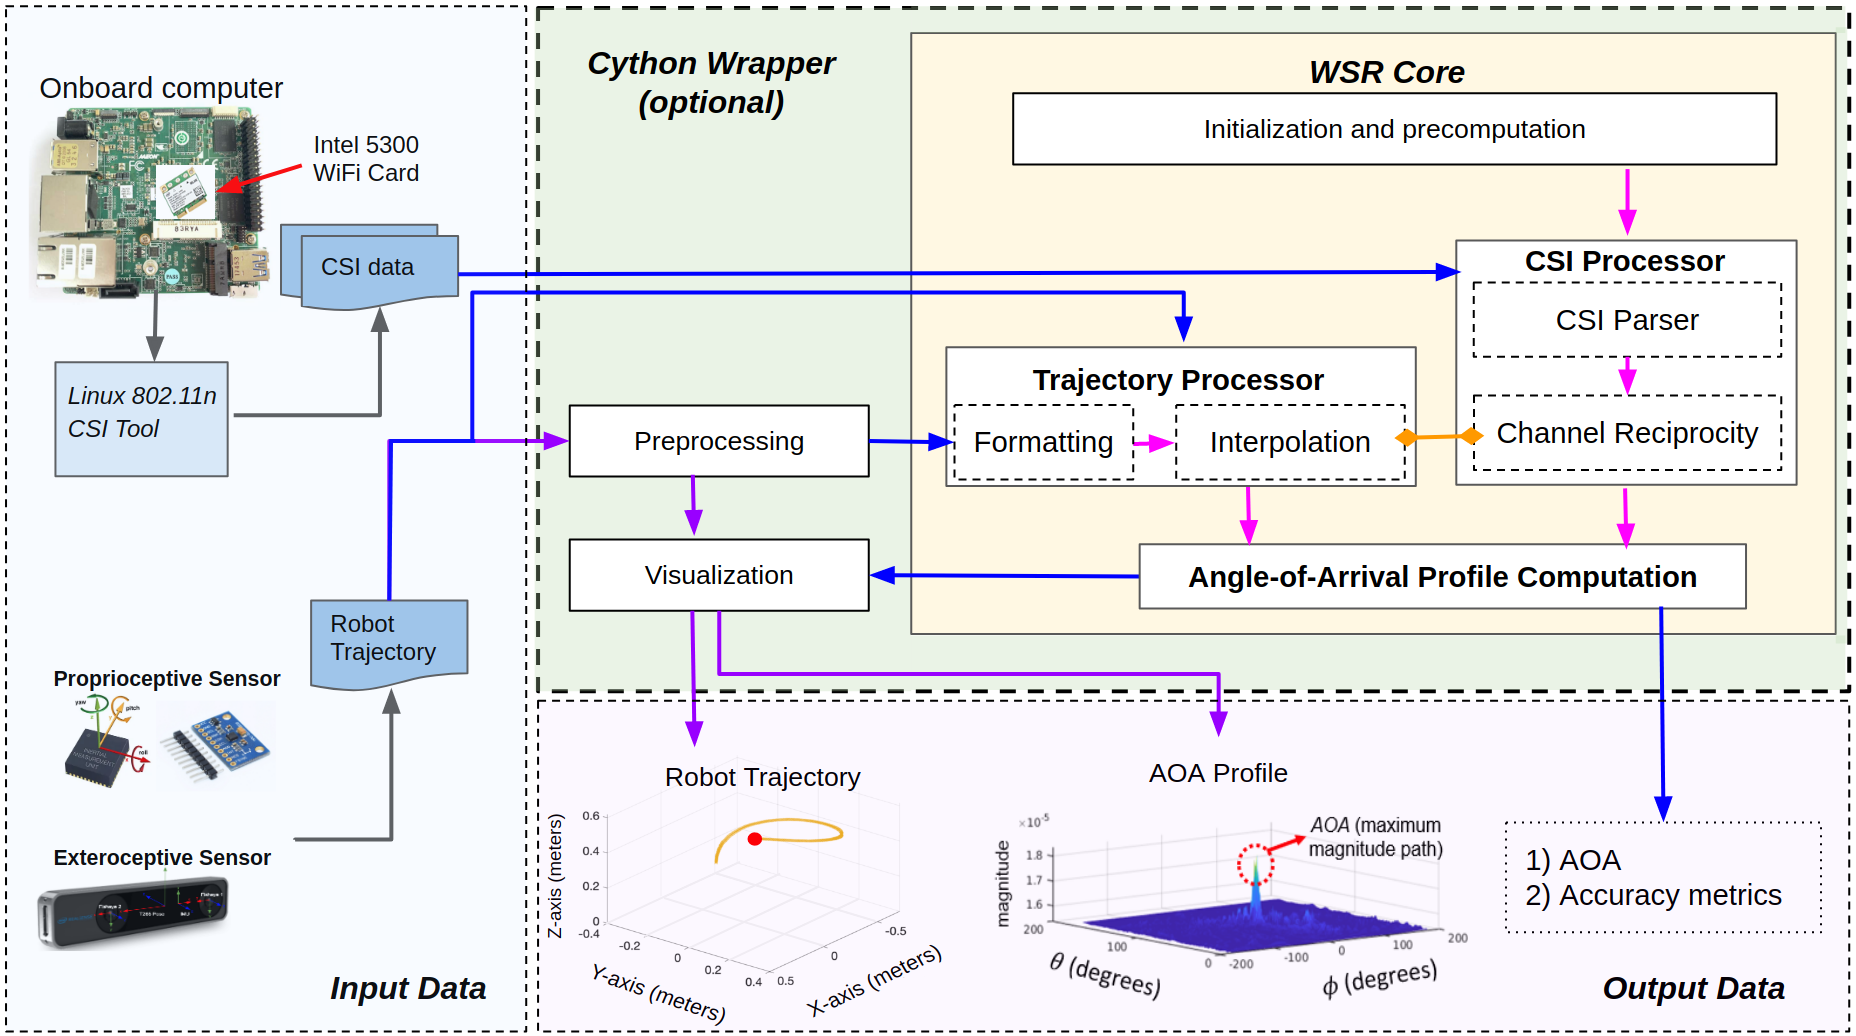
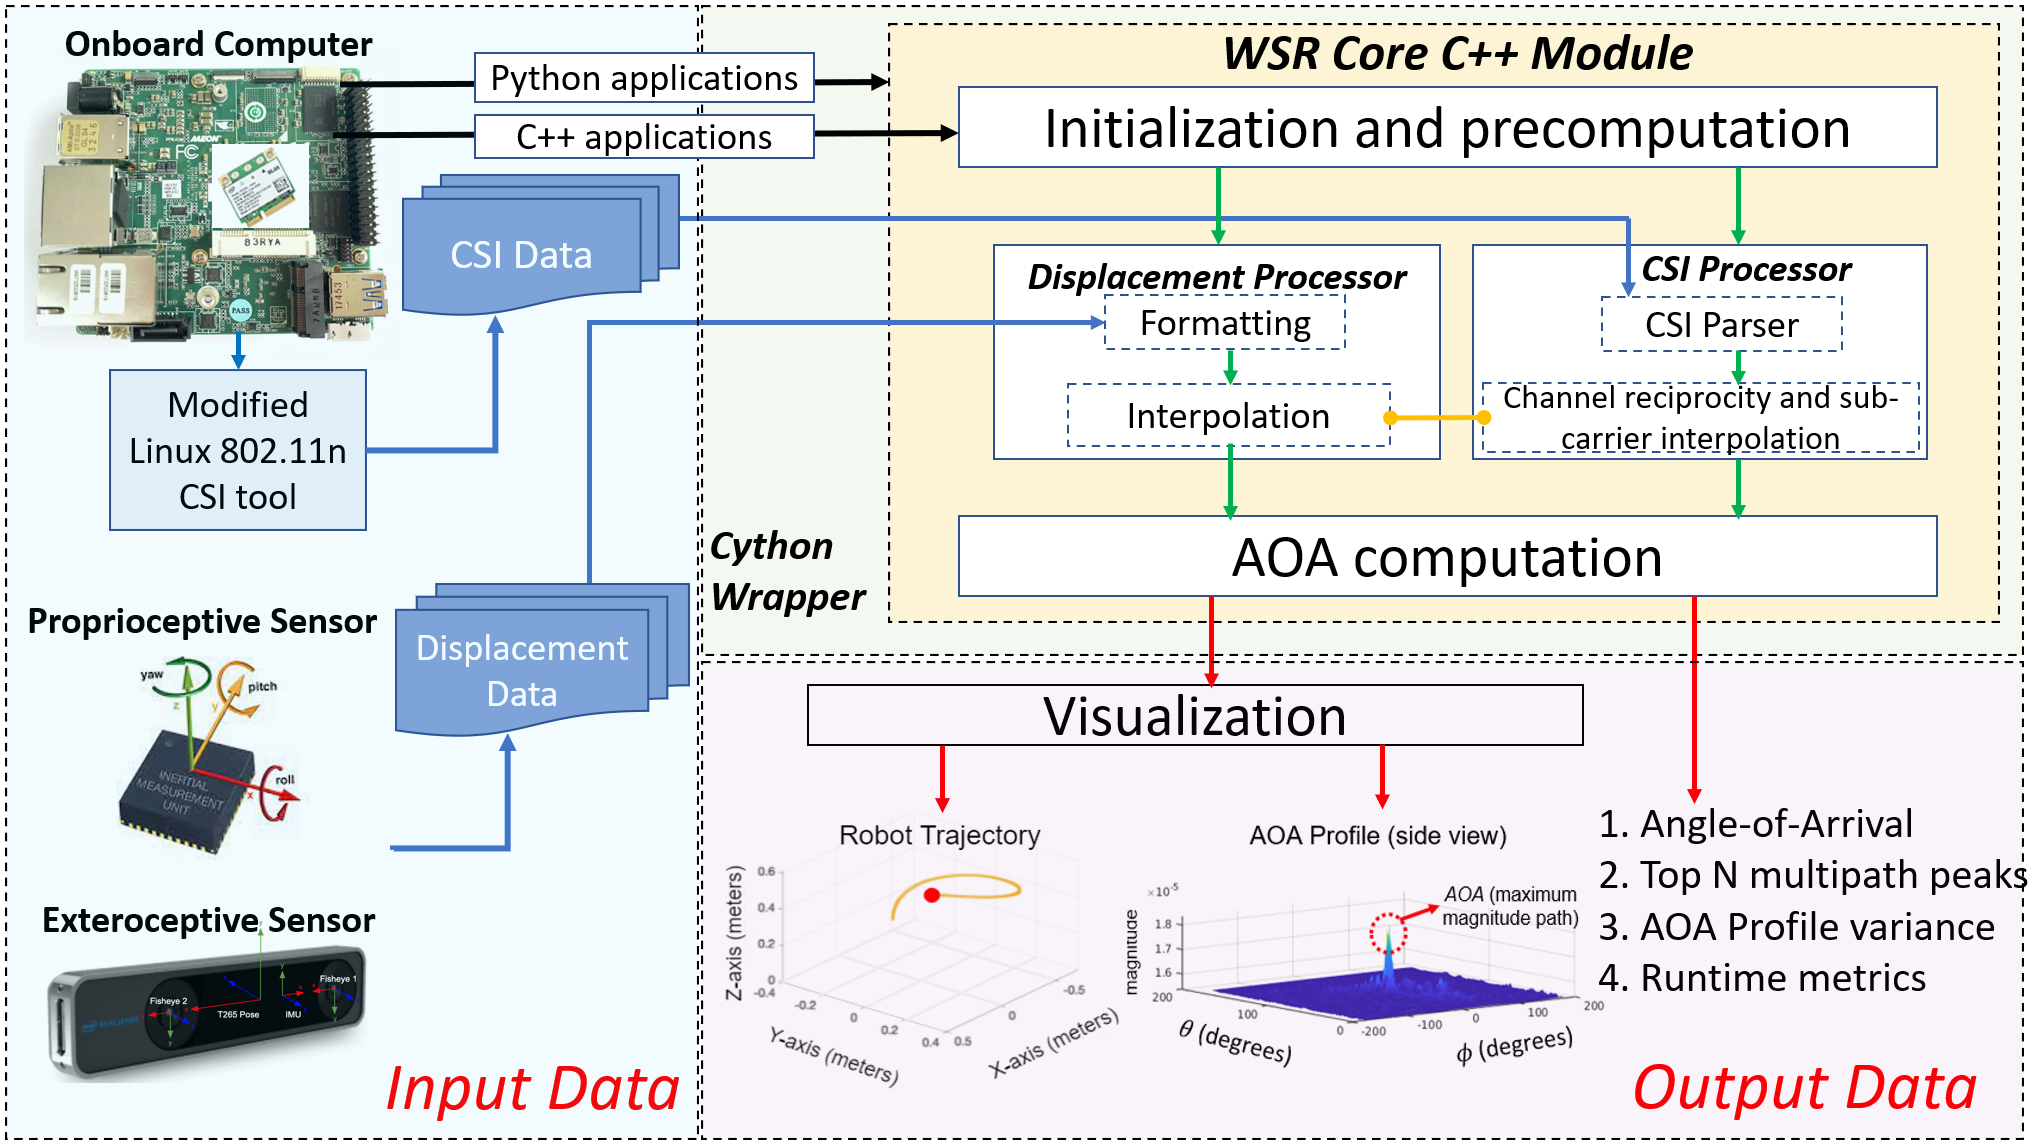
updated

diff --git a/README.md b/README.md
@@ -17,21 +17,30 @@ WiFi-Sensor-for-Robotics (WSR) toolbox is an open source library, that enables r
 
 ![Paper](figs/Paper_logo.png)
 
-### AOA profile obtained using 3D robot motion
+<!-- ### AOA profile obtained using 3D robot motion
 <div align="center">
   <img align="left" src="figs/drone_3D_motion.gif" width="250" alt="drone Trajectory">
   <img align="center" src="figs/sample_3D_traj.png" width="250" alt="traj plot">
   <img align="right" src="figs/sample_profile.png" width="220" alt="aoa profile">
 </div>
-<p>&nbsp;</p>
+<p>&nbsp;</p> -->
 
 The toolbox requires following inputs
-1. Wireless channel data collected by both signal transmitting and receiving robots.
-2. Local displacement of the signal receiving robot. Any pose estimation sensor can be used as long as the input is provided in csv file in the following format:
+1. Channel State Information for both signal transmitting and receiving robots collected using WiFi card.
+2. Local displacement of the signal receiving robot. 
+
+
+### Toolbox Architecture
+
+![Arch](figs/system_architecture.png)
+
+The technical specifications of the toolbox components can be found in the wiki page ![here](https://github.com/Harvard-REACT/WSR-Toolbox/wiki/Technical-Specifications)
+
+<!-- Any inertial sensor can be used as long as the input is provided in csv file in the following format:
 ```
 {sec,nsec,x,y,z,yaw,pitch}
 ``` 
-where sec and nsec refer the local timestamp in seconds and nanoseconds respectively; {x,y,z} are the position coordinates.
+where sec and nsec refer the local timestamp in seconds and nanoseconds respectively; {x,y,z} are the position coordinates. -->
 
 ### Hardware and software requirement with installation steps
 1. Wifi Driver and firmware:  [WiFi Driver and Firmware for Wireless channel data (CSI) collection](https://github.com/Harvard-REACT/WSR-Toolbox/wiki/WiFi-Driver-and-Firmware-for-Wireless-channel-data-(CSI)-collection) 
@@ -44,9 +53,7 @@ where sec and nsec refer the local timestamp in seconds and nanoseconds respecti
 
 The wifidriver and supplementary tool repositories are a modified version of code released as part [Linux 802.11n CSI Tool](http://dhalperi.github.io/linux-80211n-csitool/). A detailed explanation of design decision behind the modifications (i.e support for channel reprocity, handling packet collision) can be found in the publication [**Toolbox  Release:  A  WiFi-Based  Relative  Bearing  Sensor  for  Robotics**]()
 
-### Toolbox Architecture
 
-![Arch](figs/system_architecture.png)
 
 ### Workflow diagram for using with multiple robots
 
